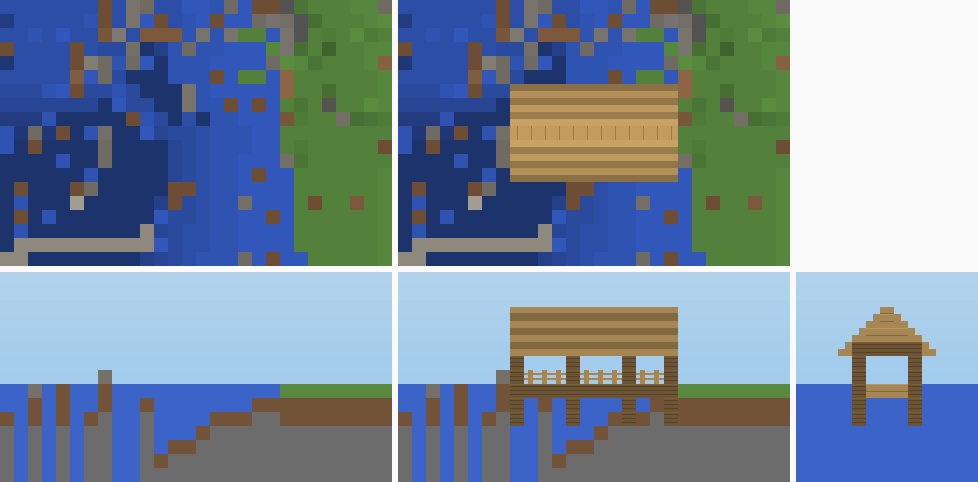
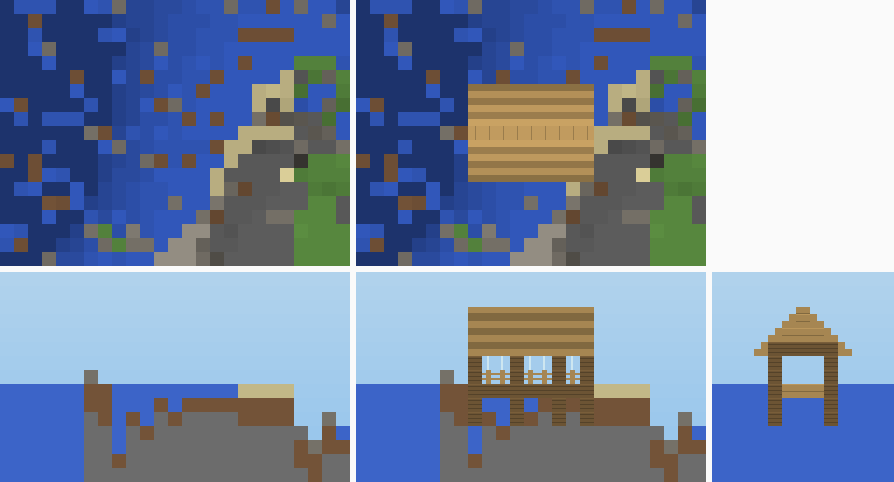
bridges-01show r2 (Paper r3): the covered bridge only on two equal banks -- a bank one up at a portal is a jump under the tie beam (4/8 walks found no path out)
Paper r3 on the final code: arch w15, trestle w18 timber banks 2/0 with an islet, foot w3 with natural dirt cleared: 8/8 dry
crossings each. Covered w10 banks 0/1: built whole and in state, but the out-bound walk found no path (the step up to the far
bank sits under the portal's tie beam at D+3). stylesFor now offers the covered bridge only when nb === fb <= 1 (its floor flush
with both banks); covered w9 1/1 and w13 0/0 crossed 8/8 in r1/r2. The pictures and the doc follow.

(cherry picked from commit bf540795bb2d5f4d4e807ae8b43608085ae153e4)
(cherry picked from commit baba9f425e7108f54482515b7ea1288e5474ddd0)
(cherry picked from commit 78ea1eb690d8ebb8fa9b4c29c5c62111d5a91bb5)
(cherry picked from commit 7f414f8f230163b835e00685b3515c910b3b540e)

diff --git a/docs/reports/bridges-design-2026-11-08.md b/docs/reports/bridges-design-2026-11-08.md
@@ -65,7 +65,7 @@ crossing clusters, and magenta lines are expedition sites.
   | hive-d | (5,134) | w 21 **arch** |
   | hive-d | (13,126) | w 29 **trestle** with 2 islets |
   | hive-d | (24,133) | w 9 arch |
-  | hive-c | (-142,-122) | w 12 **covered** |
+  | hive-c | (-142,-122) | w 12 **arch** ([`fleet-arch2-sheet.png`](bridges-design-2026-11-08/fleet-arch2-sheet.png); banks 1/0 rule out the covered bridge) |
   | placebo-b | several | footbridges |
 
 - The 9 towns on the shared seed need only footbridges.
@@ -98,8 +98,10 @@ shows exactly the cells a bot would place.
   alternate), crown lamps (centre, every bay or none).
 - Bill: w 13 ≈ 180 bricks + 6 lanterns. w 18 ≈ 265 bricks.
 
-**COVERED: a timber covered bridge** (spans 9-16, banks ≤ 1, logs above the reserve). Picture:
-[`fleet-covered-sheet.png`](bridges-design-2026-11-08/fleet-covered-sheet.png) (hive-c, w 12).
+**COVERED: a timber covered bridge** (spans 9-16, both banks equal at 0 or 1 so the floor is flush with both, logs above the reserve). Picture:
+[`fleet-covered-sheet.png`](bridges-design-2026-11-08/fleet-covered-sheet.png) (hive-d (24,133), w 9). This is a style picture: the bot would not build it there
+yet, because one of the bots' own cobblestone blocks stands in a floor cell. Bot fill in water is not natural ground, so the build never
+digs it (it could be another structure's).
 
 - The floor is 5 wide at the water: log sills along the bridge, cross beams at the bents, and a plank floor.
 - The frame:
@@ -137,7 +139,7 @@ shows exactly the cells a bot would place.
 1. The **shape** decides which styles are allowed (`stylesFor`):
    - footbridge up to 8 wide;
    - arch 9-21;
-   - covered 9-16, on banks ≤ 1;
+   - covered 9-16, on two equal banks of 0 or 1 (Paper r3: a bank one up at a portal is a jump under the tie beam, so the pathfinder finds no path out);
    - trestle beyond 21, or wherever there are islets.
 2. Where arch and covered both fit, a seeded coin picks which is tried first.
 3. **What the town can pay** decides the material:
@@ -218,14 +220,21 @@ Driver: `sandbox/bridges/design-proof.cjs`. Results: `sandbox/bridges/design-pro
 | foot w5 stone | 36 (7 s) | 31/31 + 3 | 2 | 8/8 | 2/2 | 31/31 |
 | foot w4 wood, banks 1/2 | 31 (6 s) | 26/26 + 3 | 14 | 8/8 | 2/2 | 26/26 |
 | foot w6 stone, **natural dirt in 2 of its cells** | 51 (11 s) | 44/44 + 3 (the dirt dug, the bridge's blocks in place) | 2 | 8/8 | 4/4 | 44/44 |
+| arch w15, banks 0/0 (r3, final code) | 217 (40 s) | all | | 8/8 | yes | yes |
+| trestle w18 timber, banks 2/0, 1 islet (r3) | 155 (30 s) | all | | 8/8 | yes | yes |
+| foot w3 stone + natural dirt (r3) | 30 (7 s) | all | | 8/8 | yes | yes |
+| covered w10, banks **0/1** (r3) | 218 (38 s) | all | | **4/8**: out-bound walks found no path (the step up to the 1-high far bank is under the portal's tie beam) | 3/3 | yes |
 | **K1 crafting** | stone_brick_stairs 4, slab 6, wall 6, deepslate_brick_stairs 4, cobbled_deepslate_wall 6, polished_deepslate 4, iron_nugget 9, lantern 1 | | | | | |
 
 **Totals:**
 
-- 10 bridges, 1,482 blocks placed by the bot, 0 misses.
+- 14 bridges, 2,102 blocks placed by the bot, 0 misses.
+- **One finding, fixed in the rule:** a covered bridge with banks 0/1 cannot be walked out over the 1-high bank, because the tie
+  beam blocks the jump. `stylesFor` now offers the covered bridge only on two equal banks, so the floor is flush at both portals.
+  Every other case crossed 8/8.
 - Every cell in its state, including 590 oriented cells. Stair facings were checked in all four directions and both halves; slab
   types, log axes on all three axes, and hanging and standing lanterns were checked too.
-- 80/80 crossings arrived dry.
+- 108/112 crossings arrived dry. The 4 that failed are the covered 0/1 case above; none fell in the water.
 - 0 deaths.
 
 **Not proven on Paper:**
@@ -303,6 +312,8 @@ The fleet has no expedition code at its tip, and no bridges at all. A port needs
 Candidates measured above:
 
 - hive-d: an arch w 21, a trestle w 29, an arch w 9;
-- hive-c: a covered bridge w 12;
+- hive-c: an arch w 12;
+- a covered bridge wherever both banks are level with each other. The fleet's lakes hold 2,718 bot fill blocks; boardwalk-03's
+  clean-up, or a fill rule, would free more covered sites;
 - placebo-b: footbridges;
 - the shared-seed river: footbridges.
